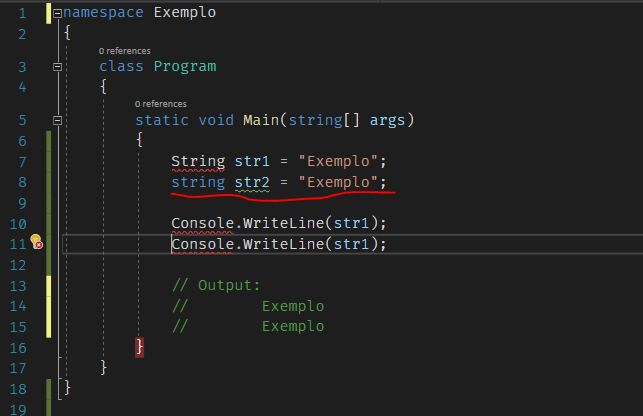
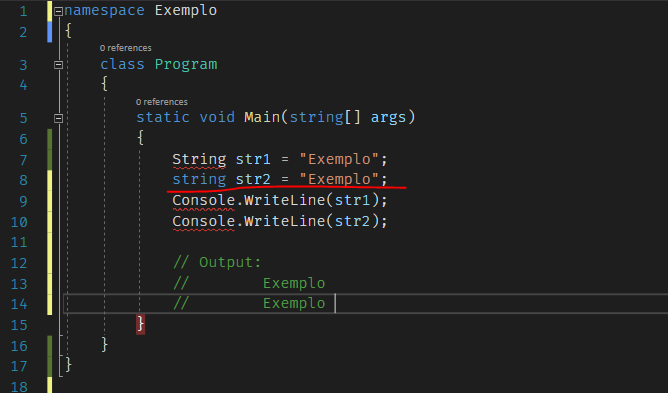
Small adjustments

diff --git a/_posts/2020-06-09-tip-style-code.md b/_posts/2020-06-09-tip-style-code.md
@@ -52,6 +52,41 @@ Para o exemplo acima ambos produzem o mesmo valor, alguma diferença?
 Resposta: Não, até eu remover o Namespace System.
 ![01]({{site.url}}{{site.baseurl}}/assets/images/tipsstring/erroNamespace.PNG)
  
+Veja que agora o compilador já reclama por não encontrar o identificador <b>String</b>, mas o a palavra-chave <b>string</b> permanece
+sem nenhum tipo de impacto, isso é porque <b>string</string> é uma palavra-chave da linguagem C#, logo o compilador sabe a quem pertence. 
+Essa já uma das vantagens em utilizar palavras-chaves, háaa, mas eu posso escolher o que eu quiser, claro quem vai dar manuntenção em seu projeto
+sem dúvidas é você, os problemas de segurança também são de sua responsabilidade, só não fale que isso é apenas, <b>code style</b>(estilo de código/perfumaria), 
+por que isso está muito mais para semâtica de código, como falei a segurança é de sua responsabilidade, vamos imaginar o seguinte cenário:
+
+```csharp
+using System;
+
+namespace Exemplo
+{
+    class String
+    {
+        public static implicit operator String(string str) => null;
+    }
+
+    class Program
+    {
+        static void Main(string[] args)
+        {
+            String str1 = "Exemplo";
+            string str2 = "Exemplo";
+
+            Console.WriteLine(str1 is System.String); // False
+            Console.WriteLine(str2 is System.String); // True
+            Console.WriteLine(str1); // NULL
+            Console.WriteLine(str2); // Exemplo
+        }
+    }
+}
+```
+Observe que eu adicionei o namespace <b>System</b> e criei uma simples classe <b>String</b> isso não causou nenhum erro no momento do desenvolvimento, 
+mas isso poderá lhe causas realmente dores de cabeça, implementamos diariamente inúmeras bibliotecas de terceiros e na maioria das vezes não conhecemos de forma mais aprofundada sua implementação, então basicamente podemos cair em armadilhas.
+## Meu conselho
+Eu já falei que a decisão é sua, mas se quiser seguir um conselho simples, use palavras reservadas quando puder!!!
 
 ## Twitter
 <div class="notice--info">
